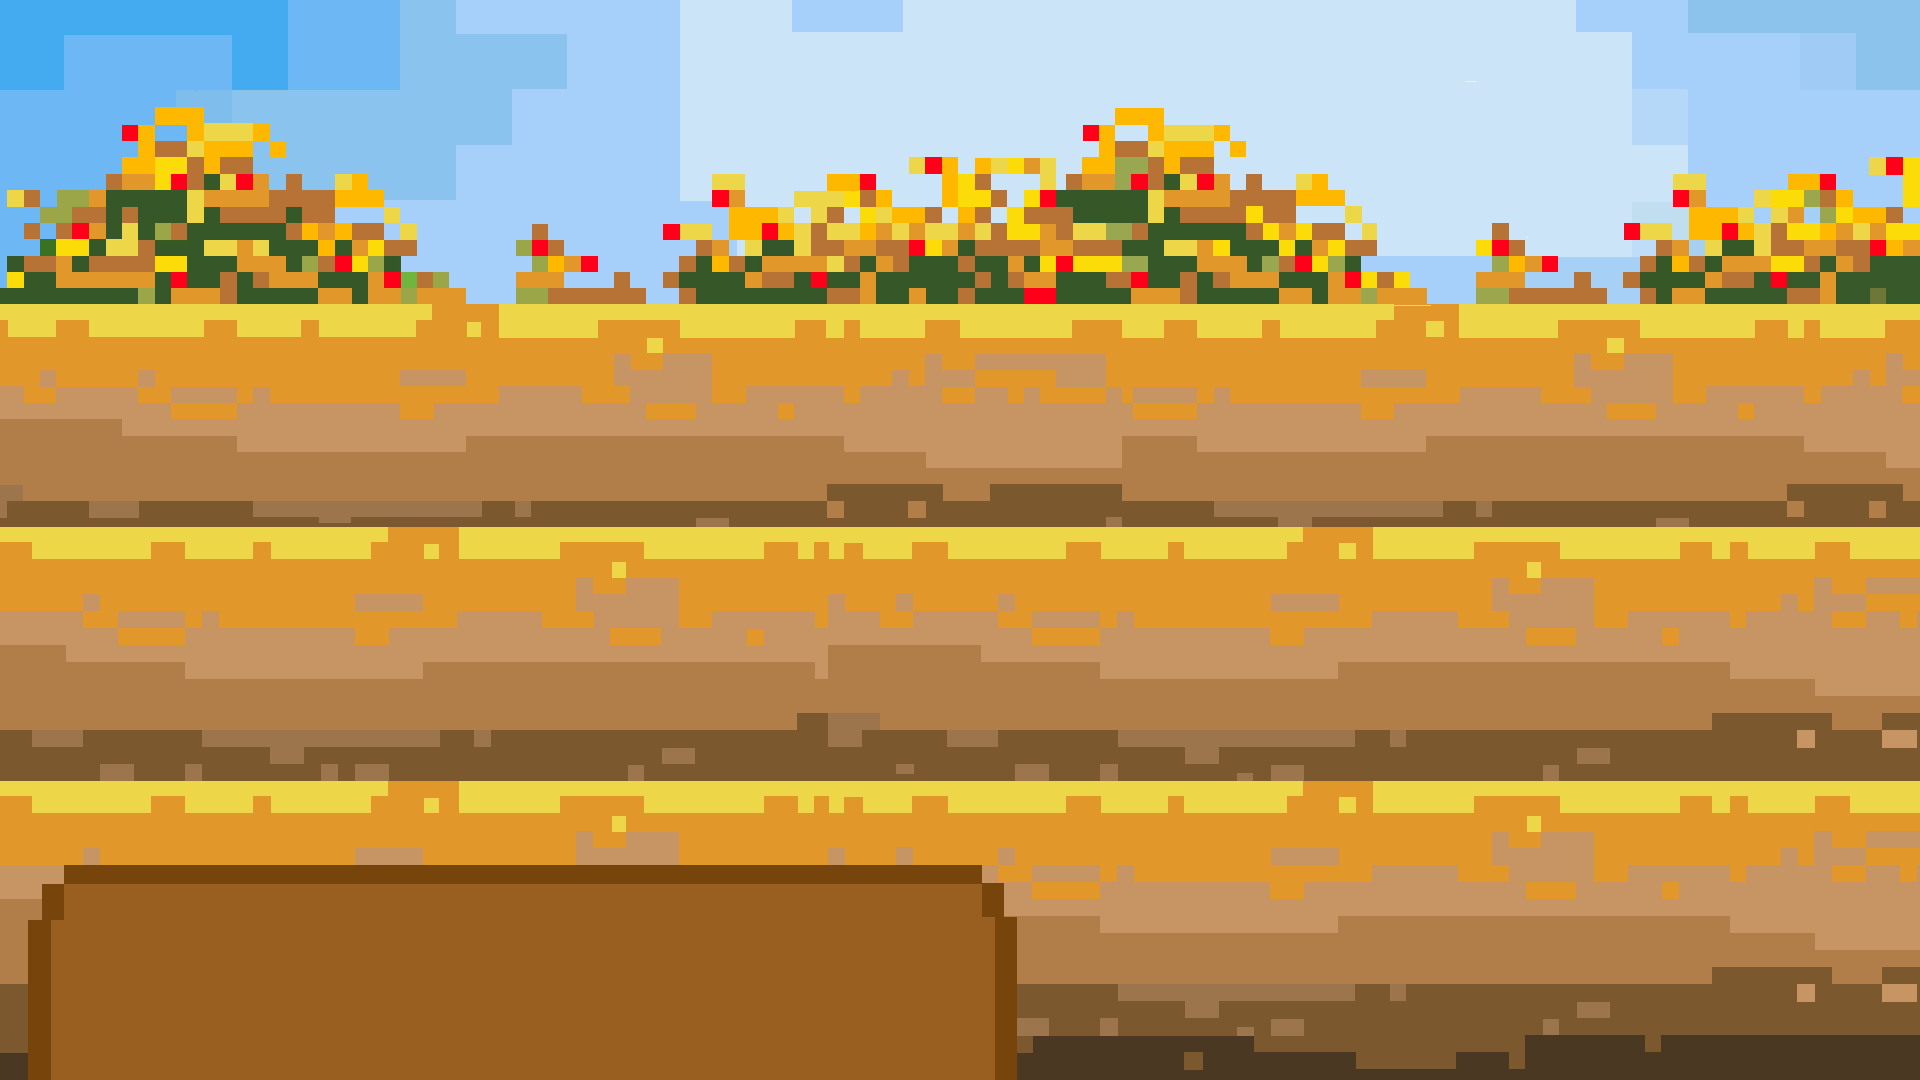
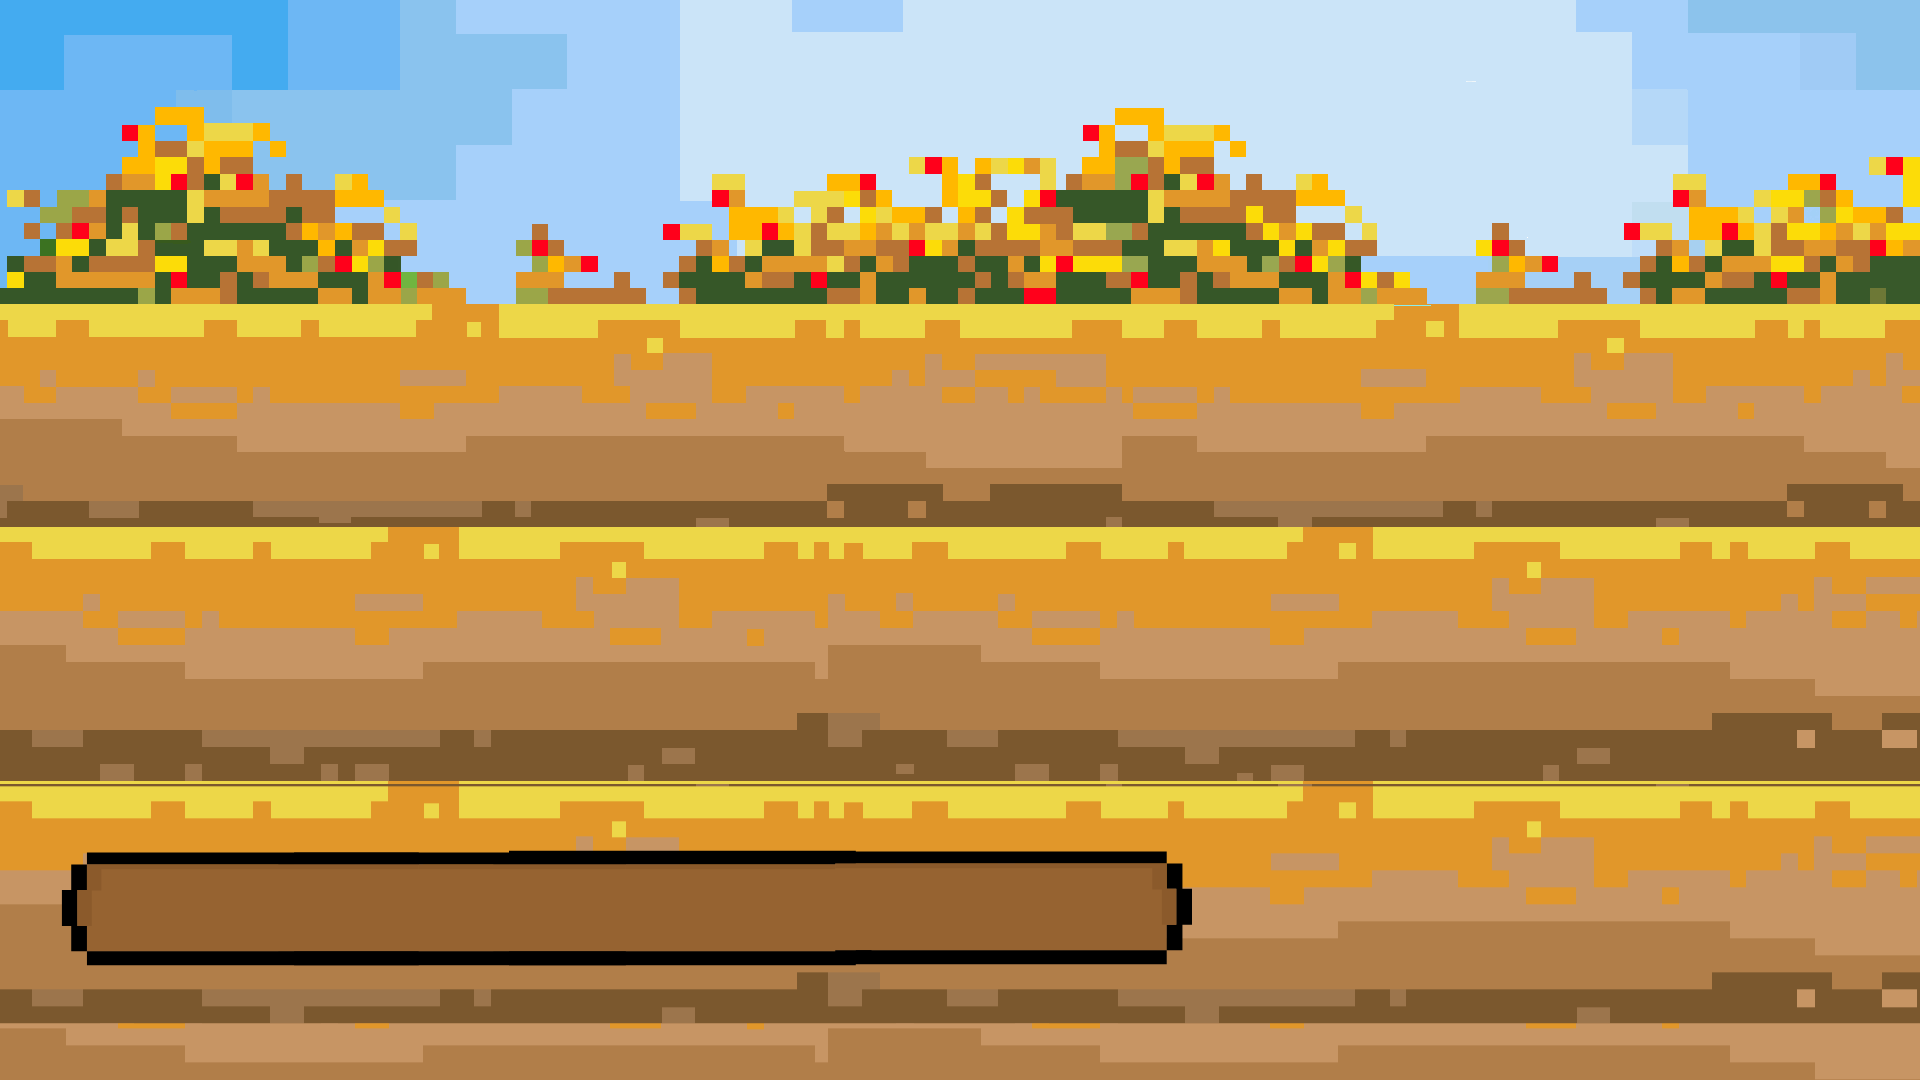
updated background

Changed region(s): [[0.0, 0.7333, 1.0, 1.0]]

diff --git a/beegarden/garden/templates/garden/garden.html b/beegarden/garden/templates/garden/garden.html
@@ -2,10 +2,10 @@
 
   {% load static %}
 
-  <audio autoplay loop volume="0.2">
+  <!-- <audio autoplay loop volume="0.2">
     <source src="{% static 'sound/default_music.wav' %}" type="audio/mpeg">
     Your browser does not support the audio element.
-  </audio>
+  </audio> -->
 
   <link href="https://fonts.googleapis.com/css2?family=Pixelify+Sans:wght@400..700&display=swap" rel="stylesheet">
   <script src="https://ajax.googleapis.com/ajax/libs/jquery/3.5.1/jquery.min.js"></script>
@@ -125,10 +125,12 @@
 
   <script>
   //changes the background seasonally
+
   var winterPath = "{% static 'img/backgroundwinter.png' %}";
   var springPath = "{% static 'img/backgroundspring.png' %}";
   var summerPath = "{% static 'img/backgroundsummer.png' %}";
   var autumnPath = "{% static 'img/backgroundautumn.png' %}";
+
   </script>
   <script src="{% static 'js/background.js' %}"></script>
   <script>
